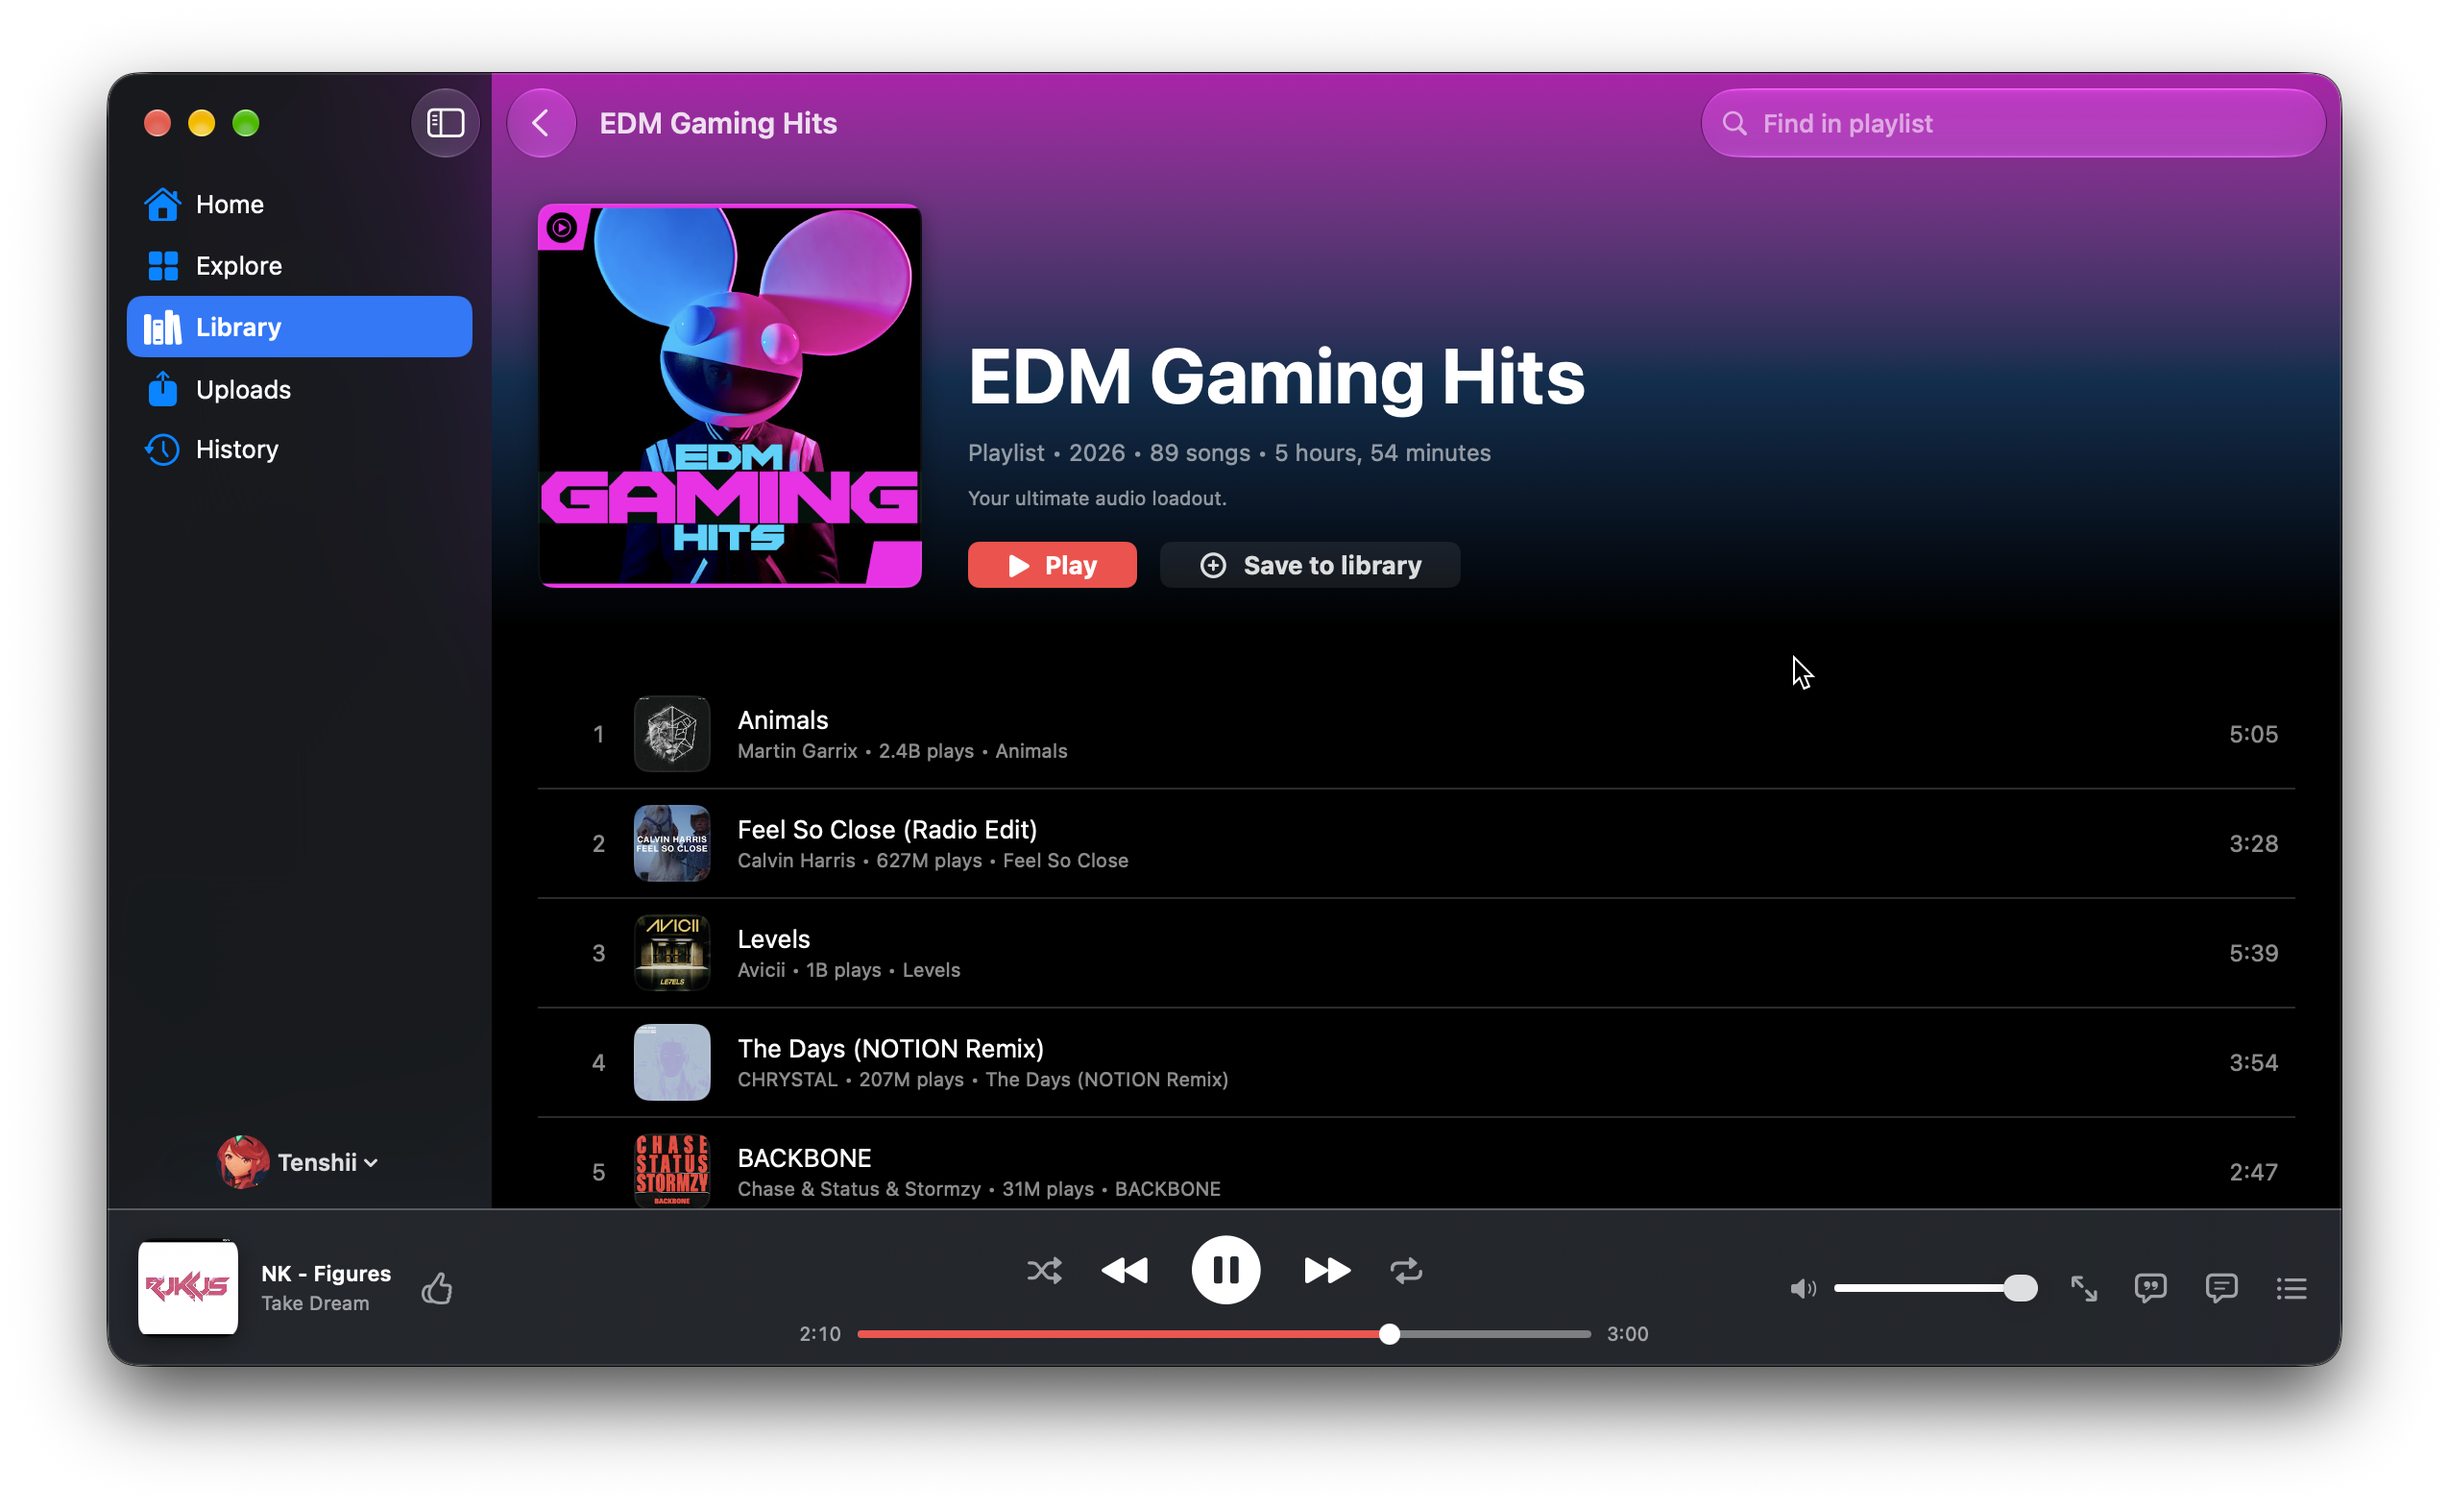
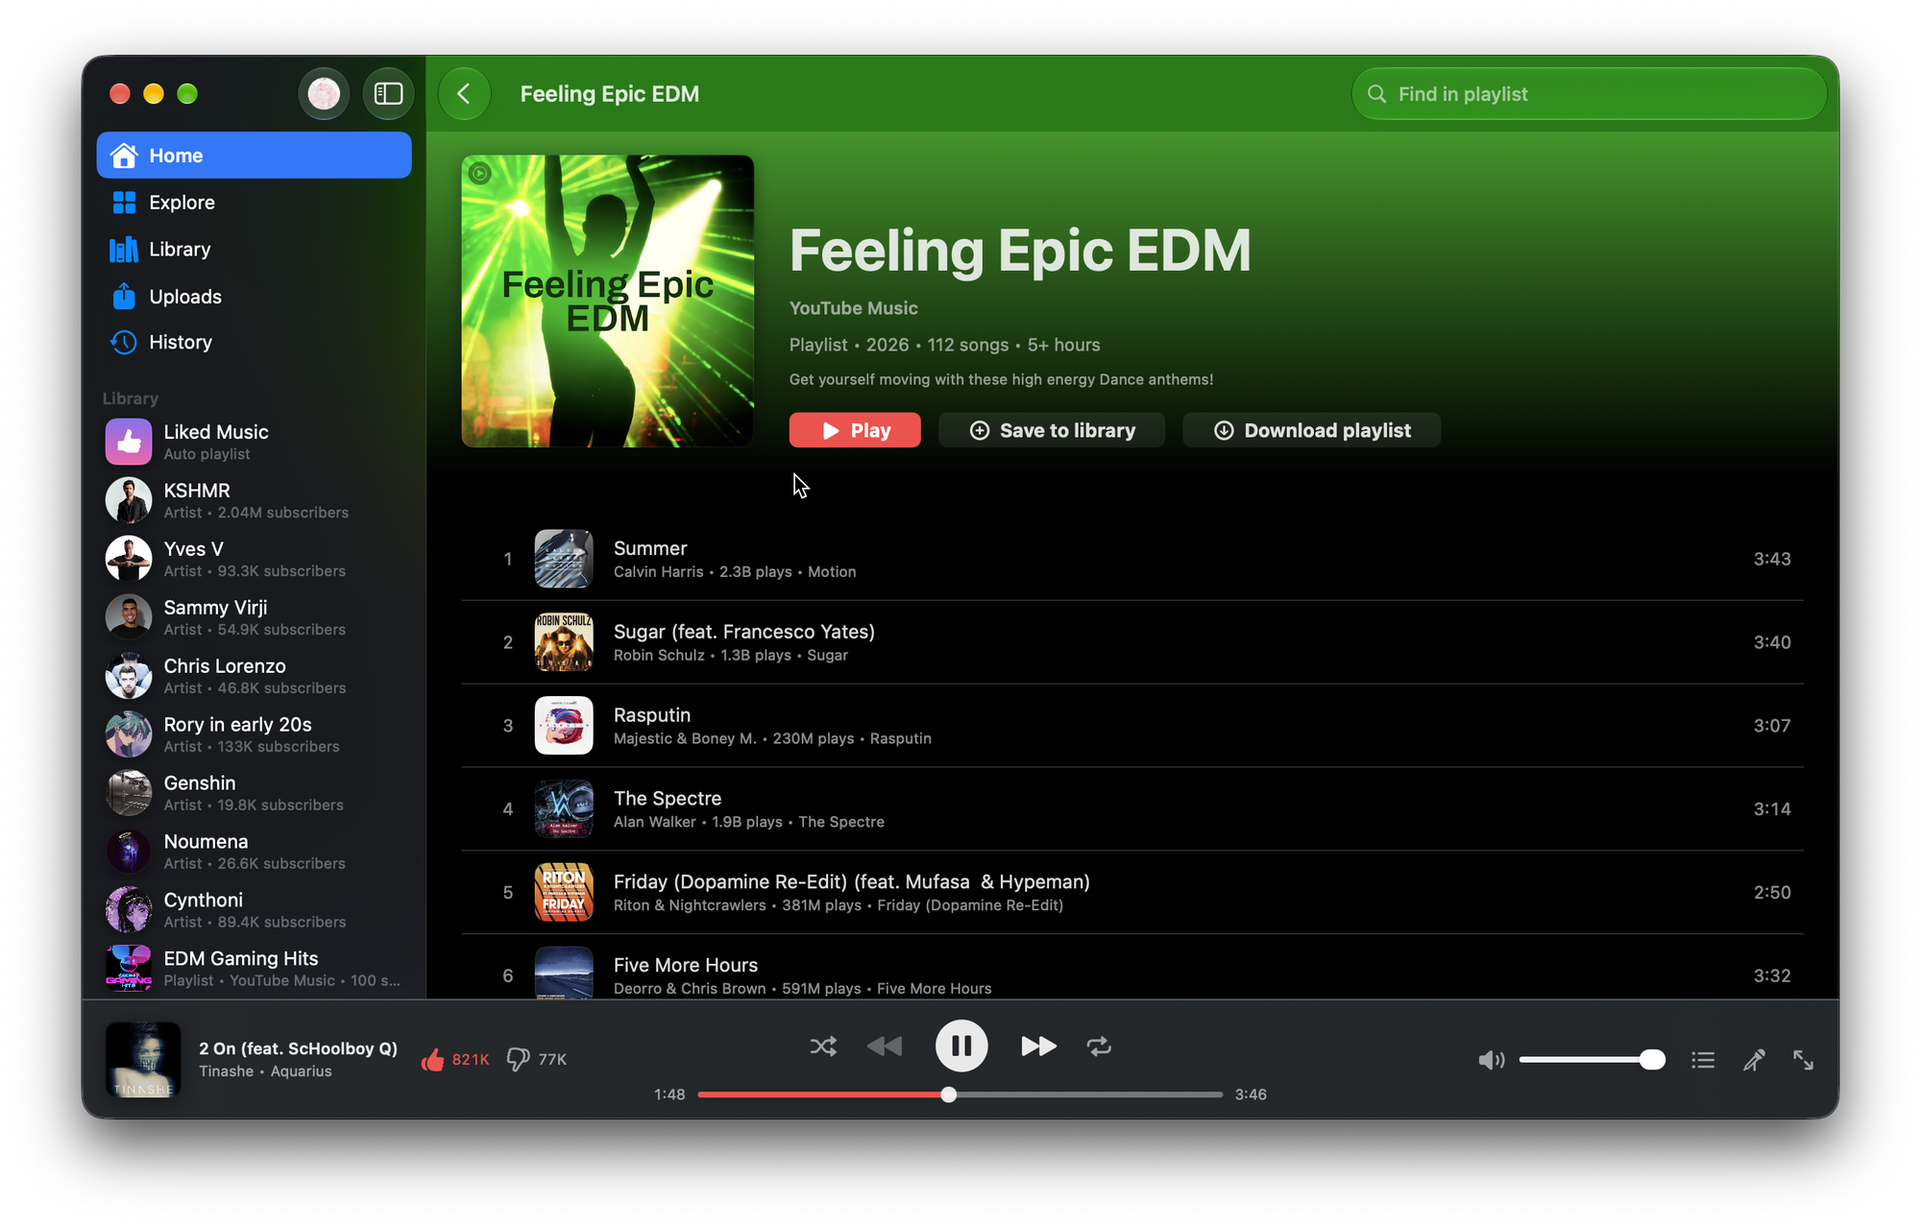
docs(readme): refresh screenshots, add artist and lyrics views, unwrap paragraphs

diff --git a/README.md b/README.md
@@ -1,26 +1,28 @@
 # YouTube Music
 
-YouTube Music is a native macOS client for YouTube Music, built with SwiftUI. It
-uses YouTube's private InnerTube API directly from Swift. Playback, stream
-resolution, and signature decoding stay inside the app, with JavaScriptCore
-used for the player code that signs stream URLs.
+YouTube Music is a native macOS client for YouTube Music, built with SwiftUI. It uses YouTube's private InnerTube API directly from Swift. Playback, stream resolution, and signature decoding stay inside the app, with JavaScriptCore used for the player code that signs stream URLs.
 
 ## Screenshots
 
 ![Home view](.forgejo/screenshots/home.png)
 
-The app combines browse shelves, search, a docked playback bar, and a
-now-playing inspector with Queue, Lyrics, Related, and Comments tabs.
+The app combines browse shelves, search, a docked playback bar, and a now-playing inspector with Queue, Lyrics, Related, and Comments tabs.
 
 ![Playlist view](.forgejo/screenshots/playlist.png)
 
-Playlist pages show artwork, playlist actions, search within the playlist, and
-the track list with playback controls.
+Playlist pages show artwork, playlist actions, search within the playlist, and the track list with playback controls.
+
+![Artist page](.forgejo/screenshots/artist.png)
+
+Artist pages show the bio, play, shuffle, mix, and subscribe actions, and top songs.
+
+![Immersive lyrics](.forgejo/screenshots/lyrics.png)
+
+The full-screen lyrics view follows the current line with timed lyrics.
 
 ![Plugins settings](.forgejo/screenshots/plugins.png)
 
-The native settings window includes a Plugins tab for enabling and configuring
-integrations.
+The native settings window includes a Plugins tab for enabling and configuring integrations.
 
 ## Features
 
@@ -57,23 +59,18 @@ xcodebuild -scheme "YouTube Music" -destination 'platform=macOS' build
 
 ## Linting
 
-The project uses [SwiftLint](https://github.com/realm/SwiftLint). Install it
-with Homebrew, then run it from the repository root:
+The project uses [SwiftLint](https://github.com/realm/SwiftLint). Install it with Homebrew, then run it from the repository root:
 
 ```sh
 brew install swiftlint
 swiftlint lint
 ```
 
-Xcode runs SwiftLint on each app build. It must be installed, and lint
-violations fail the build.
+Xcode runs SwiftLint on each app build. It must be installed, and lint violations fail the build.
 
 ## Architecture
 
-The app uses `@Observable` state injected through SwiftUI's environment. The
-project defaults to `@MainActor` isolation, while networking, parsing, and
-stream resolution types that run off the main actor are explicitly marked
-`nonisolated` or implemented as actors.
+The app uses `@Observable` state injected through SwiftUI's environment. The project defaults to `@MainActor` isolation, while networking, parsing, and stream resolution types that run off the main actor are explicitly marked `nonisolated` or implemented as actors.
 
 | Directory | Responsibility |
 | --- | --- |
@@ -87,16 +84,11 @@ stream resolution types that run off the main actor are explicitly marked
 
 ## Stream resolution
 
-`StreamResolver` selects an AAC or MP4 stream that AVPlayer can decode.
-`SignatureDecipher` fetches YouTube's current `base.js` player code and runs
-the signature and `n` parameter solver in JavaScriptCore. This part depends on
-YouTube's current player build and may need updating when that code changes.
+`StreamResolver` selects an AAC or MP4 stream that AVPlayer can decode. `SignatureDecipher` fetches YouTube's current `base.js` player code and runs the signature and `n` parameter solver in JavaScriptCore. This part depends on YouTube's current player build and may need updating when that code changes.
 
 ## Testing
 
-Tests use Swift Testing and run without network access. They cover signature
-and `n` decoding, stream format selection, credential headers, parsing, lyrics,
-playlist behavior, and queue and playback state.
+Tests use Swift Testing and run without network access. They cover signature and `n` decoding, stream format selection, credential headers, parsing, lyrics, playlist behavior, and queue and playback state.
 
 ```sh
 xcodebuild -scheme "YouTube Music" -destination 'platform=macOS' test
@@ -104,5 +96,4 @@ xcodebuild -scheme "YouTube Music" -destination 'platform=macOS' test
 
 ## Disclaimer
 
-YT Music is an unofficial client for personal use. It is not affiliated with,
-endorsed by, or sponsored by Google or YouTube.
+YT Music is an unofficial client for personal use. It is not affiliated with, endorsed by, or sponsored by Google or YouTube.
